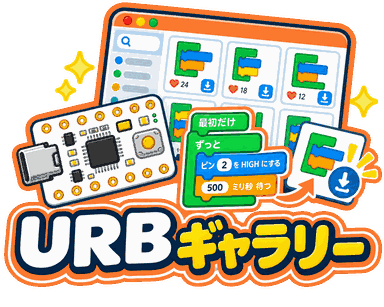
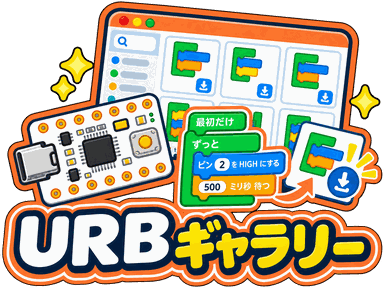
fix: URB Block Lab のギャラリー案内の絵を、ハートの数が無い絵に差し替える
- images/urbgallery.png（1448×1086）と images/urbgallery-384.png（384×288、256 色・約 36KB）を作り直す
- uiapruby-block.html の <img> の高さを 307 から 288 にする
- README のファイル構成と変更履歴に追記

diff --git a/docs/uiapruby-block.html b/docs/uiapruby-block.html
@@ -3336,7 +3336,7 @@ const GALLERY_ID   = /^[A-Za-z0-9][A-Za-z0-9._-]{0,63}$/;
     link.rel = 'noopener';
     link.title = 'みんなの作品が並んでいます。選ぶと新しいタブで開きます。';
     link.innerHTML =
-      '<img src="images/urbgallery-384.png" alt="URB ギャラリー" width="384" height="307">' +
+      '<img src="images/urbgallery-384.png" alt="URB ギャラリー" width="384" height="288">' +
       '<small>みんなの作品を見る ↗</small>';
     toolboxDiv.appendChild(link);
   }

diff --git a/README.md b/README.md
@@ -645,6 +645,7 @@ docs/                           ← GitHub Pages のルート
     24x24みかん.png             ← sv-dotart サンプルのドット絵原図
     UIAPduinoBlock.png          ← URB Block Lab のロゴ（256px 版も同梱）
     urb_block_banner.png        ← URB Block Lab の SNS リンクカード画像（og:image、1731×909）
+    urbgallery.png              ← URB ギャラリーの絵（384px 版を URB Block Lab のギャラリー案内で使用）
     UIAPDuinoICON.png           ← UIAPduino のアイコン（256px 版も同梱）
   sketches/                     ← スケッチ置き場（Arduino IDE 風サブフォルダ）
     WebHIDTest/
@@ -749,6 +750,14 @@ README.md
   SNS は JS を動かさずにこちらを読むためです
 - Discord などは同じ URL のカードをしばらく覚えていることがあります。
   古い表示のままなら、URL の末尾に `?v=1` などを付けて貼ると読み直します
+
+**URB Block Lab — ギャラリー案内の絵から「♥24」などの数を消した**
+
+- 絵の中の作品カードに「♥24」「♥18」「♥12」が描かれていましたが、ギャラリーに「いいね」の数が付く予定はありません。
+  無い機能があるように見せないよう、ハートを消した絵に差し替えました（urb-gallery の一覧ページの絵と同じもの）
+- `images/urbgallery.png` を 1448×1086 に、`images/urbgallery-384.png` を 384×288 に作り直しました。
+  384px 版は 256 色にしぼって約 36KB にしています
+- 絵の縦横の比率が変わったので、`uiapruby-block.html` の `<img>` の高さを `307` から `288` にしました
 
 ### 2026-09-14 (3)
 
